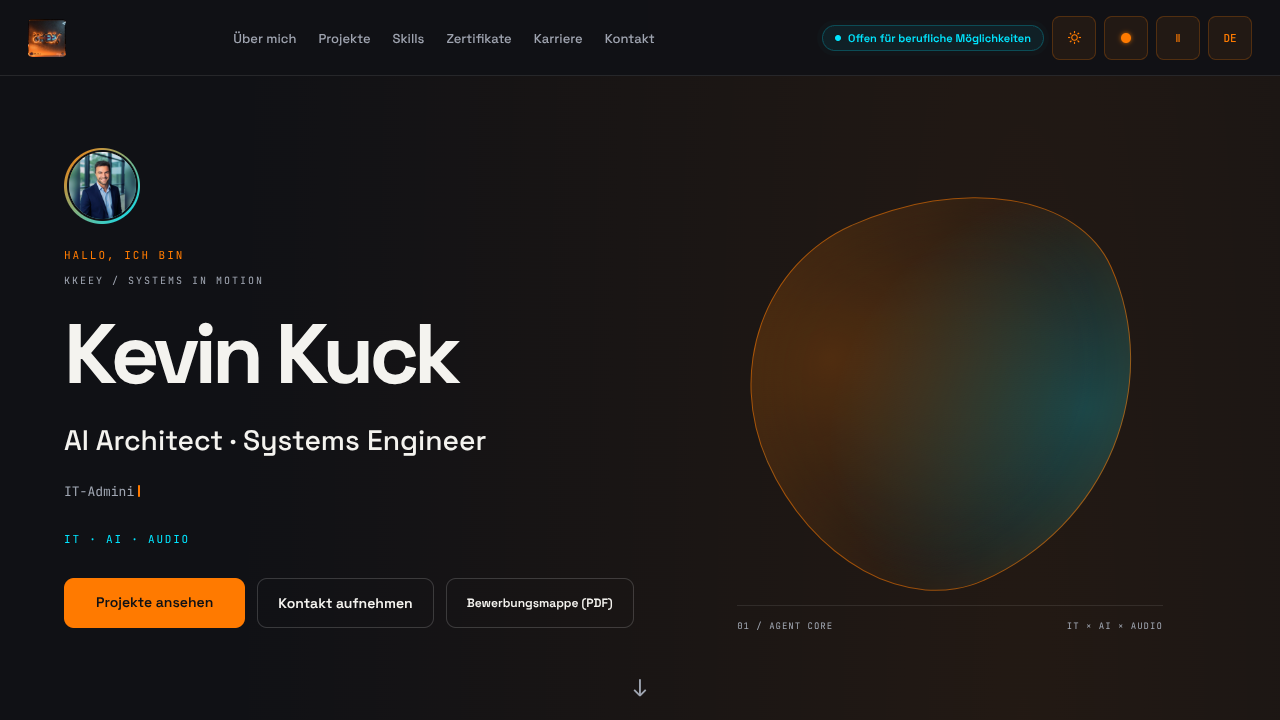
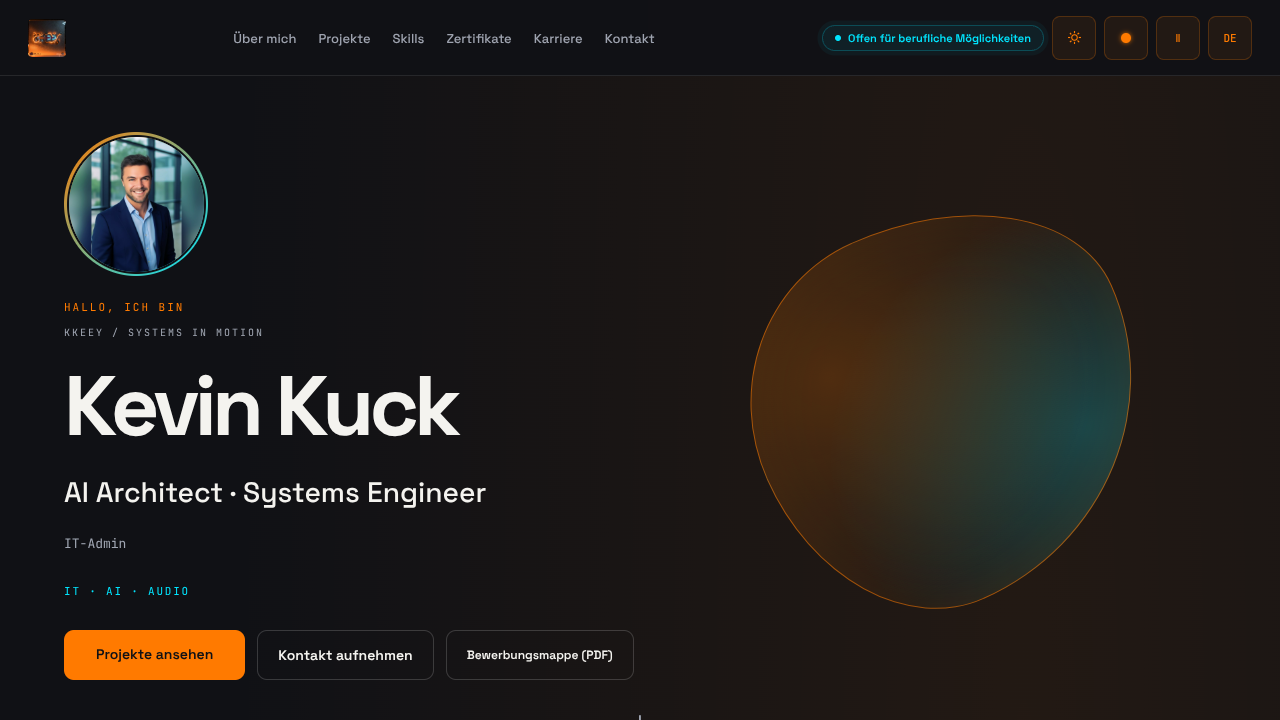
feat: enlarge core and portrait, preserve layered click ripples

diff --git a/js/particle-hero.js b/js/particle-hero.js
@@ -24,15 +24,17 @@ async function init() {
   for (let i = 0; i < seeds.length; i++) seeds[i] = next();
   const geometry = new THREE.BufferGeometry();
   geometry.setAttribute('position', new THREE.BufferAttribute(seeds, 3));
+  const rippleSlots = Array.from({length: 8}, () => new THREE.Vector3(0, 0, -99));
+  let lastRipple = -99;
   const uniforms = {
     time: { value: 0 }, scroll: { value: 0 }, pointer: { value: new THREE.Vector2(9, 9) },
-    wave: { value: -99 }, waveOrigin: { value: new THREE.Vector2() }, dpr: { value: 1 },
+    ripples: { value: rippleSlots }, dpr: { value: 1 },
     warm: { value: new THREE.Color() }, cool: { value: new THREE.Color() }, light: { value: 0 }
   };
   const material = new THREE.ShaderMaterial({ uniforms, transparent: true, depthWrite: false,
     blending: THREE.NormalBlending,
     vertexShader: `
-      uniform float time,scroll,wave,dpr; uniform vec2 pointer,waveOrigin;
+      uniform float time,scroll,dpr; uniform vec2 pointer; uniform vec3 ripples[8];
       varying float vTone,vGlow,vAlpha;
       void main(){
         vec3 s=position; float a=s.x*6.2831853; float z=s.y*2.-1.;
@@ -45,12 +47,23 @@ async function init() {
         float rotation=time*.07; mat2 rot=mat2(cos(rotation),-sin(rotation),sin(rotation),cos(rotation)); p.xz=rot*p.xz;
         vec2 delta=p.xy-pointer; float dist=length(delta); float force=exp(-dist*dist*3.);
         p.xy+=delta/max(dist,.01)*force*.16;
-        float age=time-wave; float wd=length(p.xy-waveOrigin);
-        p+=normalize(p+vec3(.001))*sin(wd*12.-age*7.)*exp(-abs(wd-age*.8)*5.)*exp(-age*1.3)*.15*step(0.,age);
+        float ripple=0.;
+        for(int i=0;i<8;i++){
+          float age=time-ripples[i].z;
+          if(age>=0. && age<6.){
+            float wd=length(p.xy-ripples[i].xy);
+            float front=wd-age*.65;
+            // A travelling ring plus trailing crests; new impulses never reset old ones.
+            float envelope=exp(-front*front*3.2)*exp(-age*.62);
+            ripple+=sin(front*13.)*envelope*.17;
+          }
+        }
+        ripple=clamp(ripple,-.36,.36);
+        p+=normalize(p+vec3(.001))*ripple;
         p.y+=sin(time*.28+a*4.)*.035;
         vec4 mv=modelViewMatrix*vec4(p,1.); gl_Position=projectionMatrix*mv;
         gl_PointSize=clamp((1.7+s.z*1.6)*dpr*3.8/-mv.z,1.,6.);
-        vTone=smoothstep(-.8,.8,p.x+sin(a*2.)*.35); vGlow=force; vAlpha=.35+s.z*.5;
+        vTone=smoothstep(-.8,.8,p.x+sin(a*2.)*.35); vGlow=clamp(force+abs(ripple)*2.,0.,1.); vAlpha=.35+s.z*.5;
       }`,
     fragmentShader: `
       uniform vec3 warm,cool; uniform float light; varying float vTone,vGlow,vAlpha;
@@ -65,7 +78,8 @@ async function init() {
   let level = matchMedia('(max-width: 768px)').matches ? 0 : 1;
   let lost = false, samples = [], sampleTime = 0, lastChange = 0, lastPaint = -1;
   function resize() {
-    const {width,height} = host.getBoundingClientRect();
+    const {width,height} = canvas.getBoundingClientRect();
+    camera.zoom = matchMedia('(max-width: 768px)').matches ? 1.36 : 1.30;
     const ratio = Math.min(devicePixelRatio || 1, level === 0 ? 1.25 : 1.75);
     renderer.setPixelRatio(ratio); renderer.setSize(width, height, false);
     camera.aspect = width / Math.max(height,1); camera.updateProjectionMatrix(); uniforms.dpr.value = ratio;
@@ -81,16 +95,39 @@ async function init() {
   }
   function coords(event, target) {
     const rect = canvas.getBoundingClientRect();
-    const planeHeight = 2 * Math.tan(42 * Math.PI / 360) * camera.position.z;
+    const planeHeight = 2 * Math.tan(42 * Math.PI / 360) * camera.position.z / camera.zoom;
     target.set(((event.clientX-rect.left)/rect.width-.5)*planeHeight*camera.aspect,
       (.5-(event.clientY-rect.top)/rect.height)*planeHeight);
   }
   hero.addEventListener('pointermove', e => { if (e.pointerType === 'mouse' && matchMedia('(hover: hover)').matches && !motion.media.matches) coords(e, uniforms.pointer.value); }, {passive:true});
   hero.addEventListener('pointerleave', () => uniforms.pointer.value.set(9,9));
-  hero.addEventListener('click', e => {
-    if (e.target.closest('a,button') || !matchMedia('(hover: hover)').matches || motion.media.matches) return;
-    coords(e, uniforms.waveOrigin.value); uniforms.wave.value = uniforms.time.value;
+  function emitRipple(event) {
+    if (motion.media.matches || event.target.closest('a,button,input,textarea')) return;
+    const now = uniforms.time.value;
+    const inputTime = performance.now() / 1000;
+    if (inputTime-lastRipple < .09) return;
+    // Reuse only expired slots: even rapid clicks cannot cut off a live ripple.
+    const slot = rippleSlots.find(ripple => now-ripple.z >= 6);
+    if (!slot) return;
+    const origin = new THREE.Vector2(); coords(event, origin);
+    slot.set(origin.x, origin.y, now); lastRipple = inputTime;
+  }
+  let touchStart = null;
+  hero.addEventListener('click', event => {
+    if (matchMedia('(hover: hover)').matches) emitRipple(event);
   });
+  hero.addEventListener('pointerdown', event => {
+    if (event.pointerType !== 'touch') return;
+    touchStart = {id:event.pointerId,x:event.clientX,y:event.clientY,at:performance.now(),scroll:window.scrollY};
+  }, {passive:true});
+  hero.addEventListener('pointerup', event => {
+    if (!touchStart || event.pointerId !== touchStart.id) return;
+    const tap = Math.hypot(event.clientX-touchStart.x,event.clientY-touchStart.y)<10 &&
+      performance.now()-touchStart.at<600 && Math.abs(window.scrollY-touchStart.scroll)<5;
+    touchStart=null;
+    if(tap) emitRipple(event);
+  }, {passive:true});
+  hero.addEventListener('pointercancel', () => {touchStart=null;}, {passive:true});
   canvas.addEventListener('webglcontextlost', e => { e.preventDefault(); lost = true; host.dataset.render = 'fallback'; motion.refresh(); });
   canvas.addEventListener('webglcontextrestored', () => { lost = false; resize(); theme(); });
   new ResizeObserver(resize).observe(host);

diff --git a/css/style.css b/css/style.css
@@ -578,7 +578,7 @@ textarea.contact-input { resize: vertical; min-height: 130px; }
 [data-theme="light"]:not([data-color-theme="orange"]) { --accent-1:#6144c9; --accent-2:#007d68; }
 body { background-image:radial-gradient(ellipse at 80% 10%,rgba(var(--accent-1-rgb),.08),transparent 55%); }
 .scanlines { display:none; }
-#kk-bg { opacity:.45; }
+#kk-bg { opacity:.70; }
 section { scroll-margin-top:90px; padding-block:var(--space-section); }
 :focus-visible { outline:2px solid var(--accent-2); outline-offset:5px; }
 .skip-link { position:fixed;top:8px;left:16px;z-index:200;background:var(--kk-bg);padding:14px;transform:translateY(-160%);border:1px solid var(--accent-2); }
@@ -591,7 +591,7 @@ section { scroll-margin-top:90px; padding-block:var(--space-section); }
 .hero { min-height:100svh; padding:132px 5vw 96px; overflow:hidden; }
 .hero-stage { width:100%; max-width:1440px; display:grid;grid-template-columns:1.12fr 1fr;align-items:center;gap:24px; }
 .hero-content { text-align:left; max-width:720px;position:relative;z-index:2; }
-.hero-avatar { width:76px;height:76px;margin:0 0 24px;box-shadow:none;animation:none; }
+.hero-avatar { width:144px;height:144px;margin:0 0 24px;box-shadow:none;animation:none; }
 .hero-label { margin-bottom:12px;letter-spacing:2px;animation:none; }
 .hero-eyebrow { font:10px 'JetBrains Mono',monospace;letter-spacing:2px;color:var(--kk-text-muted);margin-bottom:24px; }
 .hero-name { font-size:clamp(60px,6.6vw,104px);line-height:1.03;letter-spacing:-5px;background:none;-webkit-text-fill-color:var(--kk-text-bright);color:var(--kk-text-bright);animation:none;margin-bottom:24px; }
@@ -604,12 +604,12 @@ section { scroll-margin-top:90px; padding-block:var(--space-section); }
 .btn-outline { padding-inline:20px; }
 .btn-outline:hover {color:var(--kk-text-bright);}
 .btn-cv { font-size:12px; }
-.signal-field { width:100%;height:clamp(340px,40vw,640px);position:relative;pointer-events:none; }
-.signal-canvas {width:100%;height:100%;position:absolute;inset:0;opacity:0;transition:opacity .6s;}
+.signal-field { width:100%;height:clamp(340px,40vw,640px);position:relative;pointer-events:none;z-index:1; }
+.signal-canvas {width:155%;height:155%;position:absolute;left:-27.5%;top:-27.5%;opacity:0;transition:opacity .6s;}
 .signal-field[data-render="webgl"] .signal-canvas {opacity:1;}
 .signal-poster {position:absolute;inset:13%;border-radius:44% 56% 62% 38% / 48% 38% 62% 52%;border:1px solid rgba(var(--accent-1-rgb),.55);background:radial-gradient(ellipse at 25% 30%,rgba(var(--accent-1-rgb),.22),transparent 65%),radial-gradient(ellipse at 80% 70%,rgba(var(--accent-2-rgb),.22),transparent 60%);box-shadow:inset 0 0 60px rgba(var(--accent-1-rgb),.08);transform:rotate(-24deg); }
-.signal-field[data-render="webgl"] .signal-poster { opacity:.15; }
-.signal-caption {position:absolute;bottom:12px;left:10%;right:10%;display:flex;justify-content:space-between;gap:12px;font:9px 'JetBrains Mono',monospace;letter-spacing:1px;color:var(--kk-text-muted);border-top:1px solid var(--kk-border);padding-top:14px; }
+.signal-field[data-render="webgl"] .signal-poster { opacity:.06; }
+.signal-caption {position:absolute;bottom:-20%;left:10%;right:10%;display:flex;justify-content:space-between;gap:12px;font:9px 'JetBrains Mono',monospace;letter-spacing:1px;color:var(--kk-text-muted);border-top:1px solid var(--kk-border);padding-top:14px; }
 .hero-arrow { animation:none;bottom:24px;min-width:44px;min-height:44px;text-align:center; }
 .glass-card {border-radius:18px;}
 .project-card {padding:30px;transition:transform .25s,border-color .25s;}
@@ -628,7 +628,7 @@ section { scroll-margin-top:90px; padding-block:var(--space-section); }
 @media (max-width:768px) {
  .hero {padding:112px 24px 60px;min-height:100svh;}
  .hero-stage {grid-template-columns:1fr;gap:4px;}
- .hero-avatar {width:60px;height:60px;margin-bottom:18px;}
+ .hero-avatar {width:112px;height:112px;margin-bottom:18px;}
  .hero-name {font-size:clamp(56px,12vw,80px);letter-spacing:-3px;margin-bottom:18px;}
  .hero-eyebrow {font-size:9px;margin-bottom:18px;}
  .hero-position {font-size:20px;}
@@ -637,7 +637,8 @@ section { scroll-margin-top:90px; padding-block:var(--space-section); }
  .hero-ctas {display:grid;grid-template-columns:1fr 1fr;gap:10px;}
  .hero-ctas a {min-width:0;padding:14px 10px;font-size:12px;}
  .hero-ctas .btn-cv {grid-column:1/-1;justify-content:center;}
- .signal-field {height:300px;max-width:480px;margin:auto;}
+ .signal-field {height:440px;max-width:480px;margin:auto;}
+ .signal-canvas {width:120%;height:100%;left:-10%;top:0;}
  .signal-caption {font-size:8px;bottom:14px;}
  .hero-arrow {display:none;}
  .nav-links a {display:block;min-height:44px;padding:12px 0;}
@@ -647,3 +648,8 @@ section { scroll-margin-top:90px; padding-block:var(--space-section); }
  *,*::before,*::after {animation:none!important;transition:none!important;scroll-behavior:auto!important;}
  .hero-cursor {display:none;}.reveal {opacity:1;transform:none;}
 }
+
+/* More transparent glass: keep text opaque and bound ambient contrast. */
+:root { --kk-card:linear-gradient(135deg,rgba(255,255,255,.025),rgba(255,255,255,.008)); --kk-shadow:rgba(0,0,0,.16); --kk-inset:rgba(255,255,255,.08); }
+[data-theme="light"] { --kk-card:linear-gradient(135deg,rgba(255,255,255,.48),rgba(255,255,255,.24)); --kk-shadow:rgba(0,0,40,.06); --kk-inset:rgba(255,255,255,.4); }
+.glass-card { -webkit-backdrop-filter:blur(10px);backdrop-filter:blur(10px); }

diff --git a/js/main.js b/js/main.js
@@ -481,7 +481,7 @@ function initBg() {
     '  vec2 uv=gl_FragCoord.xy/u_r;',
     '  vec2 p=uv*2.-1.;',
     '  p.x*=u_r.x/u_r.y;',
-    '  float t=u_t*.2;',
+    '  float t=u_t*.42;',
     '  float w1=sin(p.x*2.5+t)*cos(p.y*1.8-t*.6);',
     '  float w2=cos(p.x*1.5-t*.4)*sin(p.y*2.2+t);',
     '  float w3=sin(length(p)*3.-t*1.2)*.5+.5;',
@@ -528,7 +528,7 @@ function initBg() {
       uTime=gl.getUniformLocation(prog,'u_t'); uRes=gl.getUniformLocation(prog,'u_r');
       uIntensity=gl.getUniformLocation(prog,'u_i'); uLight=gl.getUniformLocation(prog,'u_l');
       uC1=gl.getUniformLocation(prog,'u_c1'); uC2=gl.getUniformLocation(prog,'u_c2');
-      gl.uniform1f(uIntensity,.32); ready=true; resize(); updateBgLight();
+      gl.uniform1f(uIntensity,.60); ready=true; resize(); updateBgLight();
     } catch(error) { console.warn('Ambient shader fallback:',error.message); c.style.opacity='0'; }
   }
   setup();

diff --git a/docs/NEXTGEN-REVIEW.md b/docs/NEXTGEN-REVIEW.md
@@ -30,7 +30,7 @@ Portfolio: consistent card hierarchy, vertically arranged title/status, wrapping
 - DPR caps: particle low 1.25, other levels 1.75; ambient 1.25 with adaptive scale reduction. ResizeObserver updates hero backing store/camera; ambient updates backing store and viewport.
 - Particle frames stop when its stage is outside the viewport. Ambient remains visible throughout the page and runs at up to ~30fps; both stop on hidden page/user pause. If all clients are inactive the scheduler has no repeating RAF.
 - Ambient's original mathematical shader retained, reduced intensity, compile/link checks and context-loss recovery added. CSS background/core provides the non-WebGL fallback.
-- Interaction ignores touch pointer forces and clicks on links/buttons; no canvas pointer capture, dragging or OrbitControls. No scroll interception.
+- Interaction ignores touch pointer forces and clicks on links/buttons; short touch taps emit ripples while motion/scroll gestures do not; no canvas pointer capture, dragging or OrbitControls. No scroll interception.
 - User-visible pause control stores its preference. OS reduced motion takes precedence over resume.
 
 ## P4 — Functional changes
@@ -45,10 +45,10 @@ Environment: Chromium 153 headless, Linux, SwiftShader/software GPU, localhost, 
 
 | Viewport | Local LCP | Local CLS | Particle tier | Overflow |
 |---|---:|---:|---|---|
-| 390×844 | 740 ms | 0.00891 | Low | None |
-| 768×1024 | 236 ms | 0.00914 | Low | None |
-| 1440×900 | 332 ms | 0.00118 | Medium | None |
-| 2560×1440 | 1940 ms | 0.00256 | Medium | None |
+| 390×844 | 220 ms | 0.00834 | Low | None |
+| 768×1024 | 108 ms | 0.00001 | Low | None |
+| 1440×900 | 116 ms | 0.01322 | Medium | None |
+| 2560×1440 | 576 ms | 0.00287 | Medium | None |
 
 These local samples meet LCP ≤2.5s and CLS ≤0.1. **Production LCP/CLS and INP ≤200ms remain UNVERIFIED.** No INP estimate is substituted for field measurement. Three.js adds ~720 KB uncompressed JS; production gzip/Brotli/cache transfer was not measured. Imports occur only once the decorative stage enters view. Cold slow-network tests and real GPU power measurements remain outstanding.
 
@@ -94,3 +94,16 @@ This is a **draft review candidate**, not production-approved. Real Safari/iPhon
 No DNS/domain/CNAME/workflow updates, main commits, force-pushes or production deployment. No Aria/Claire repository writes. User's explicit GO is required for any production merge.
 
 Rollback before merge: close the draft PR / leave feature branch unmerged. After a separately approved deployment: revert the modernization commit through a new reviewed PR while preserving later data-sync changes; do not reset main or force-push. All runtime effects are isolated to new motion/particle modules and additive CSS plus audited main integration. Original shader formula, data and download assets remain available.
+
+## Revision — larger core and persistent ripple field
+
+User follow-up: approximately double the particle animation, successive water-like waves, stronger ambient motion, more transparent cards.
+
+- Desktop apparent size multiplier ~2.02 (155% canvas stage × camera zoom 1.30); mobile ~2.0 (440px stage instead of 300px × camera zoom 1.36). Extended canvas is clipped by the hero, not by a scrolling container. Text/CTAs keep their higher stacking order. Particle count remains adaptive, not doubled.
+- Eight GPU ripple slots, six-second lifetime. Reuse only expired slots; rapid clicks never overwrite a still-active wave. Radial travelling fronts, trailing crests, damping and capped displacement. At capacity further impulses are skipped until a slot expires. Coordinates account for camera zoom.
+- Short touch taps supported with passive pointer handlers; movement, scroll change and pointer cancellation reject the tap. No preventDefault or pointer capture.
+- Ambient time multiplier 0.20 → 0.42; shader intensity 0.32 → 0.60; canvas opacity 0.45 → 0.70. Existing pauses and quality adaptation retained.
+- Glass alpha reduced in Dark and Light, blur 18px → 10px. Text stays fully opaque.
+- **18 Chromium groups PASS**, including GPU uniform capture proving the initial wave timestamp survives later rapid clicks, two emulated touch taps retaining both waves, all four viewport checks and axe Dark/Light. Updated screenshots/results reflect this revision; local samples are not production performance evidence. Physical iPhone/Safari and production INP remain UNVERIFIED.
+
+- Additional user steering: portrait enlarged from 76px to 144px on desktop and 60px to 112px on mobile; viewport tests assert the new portrait dimensions.
